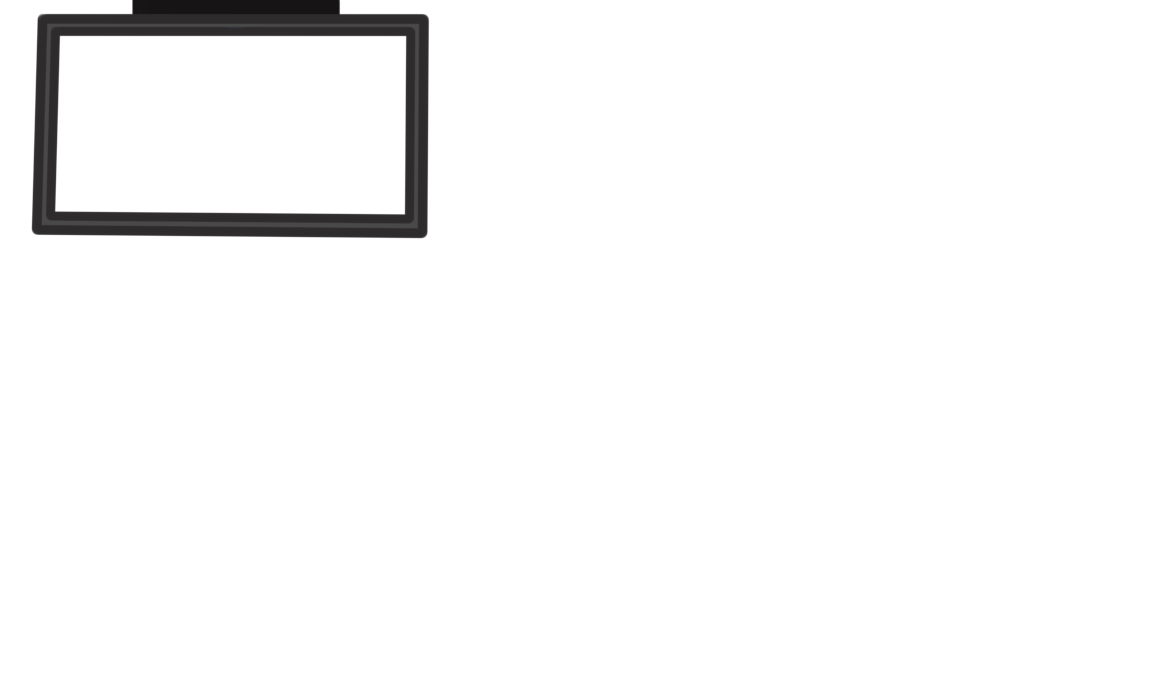
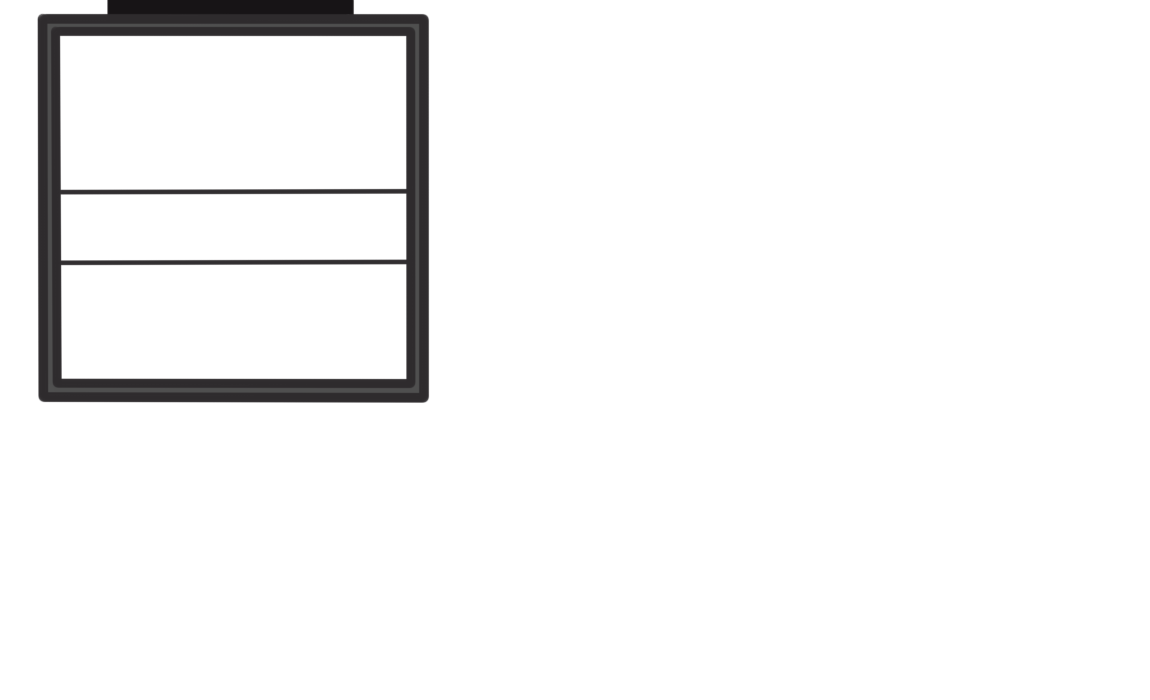
Added money economy alpha version. And changed monitor.png a bit

Changed region(s): [[0.0304, 0.06, 0.3957, 0.6], [0.2739, 0.0, 0.3043, 0.03], [0.0913, 0.0, 0.1217, 0.03]]

diff --git a/main.py b/main.py
@@ -7,8 +7,11 @@ pygame.init()
 size = width, height = 1150, 700
 screen = pygame.display.set_mode(size)
 all_sprites = pygame.sprite.Group()
-fontBig = pygame.font.Font(None, 40)
-fontSmole = pygame.font.Font(None, 30)
+go = False
+
+
+def monitor_text(text, y, scale=40):
+    return [pygame.font.Font(None, scale).render(f'{text}', True, (1, 1, 1)), (70, y)]
 
 
 def load_image(name, colorkey=None):
@@ -49,30 +52,44 @@ class Monitor(pygame.sprite.Sprite):
         super(Monitor, self).__init__(*groups)
         self.image = Monitor.image.copy()
         self.kilograms = 0
-        self.max_kilograms = 10000
-        proc = self.kilograms // (self.max_kilograms / 255)
-        self.color = (255, 255 - proc, 255 - proc)
+        self.max_kilograms = 100
+        self.money_business = 530
+        self.price_of_kilogram = 20
+        self.sale_price = 22
+        proc = self.kilograms / (self.max_kilograms / 255)
+        self.color_metal = (255, 255 - proc, 255 - proc)
         self.rect = self.image.get_rect()
         self.rect.x = 0
         self.rect.y = 0
         self.update_values()
 
     def add_counter(self):
-        self.kilograms += 1
-        self.update_values()
+        if self.money_business >= self.price_of_kilogram:
+            self.kilograms += 1
+            self.money_business -= self.price_of_kilogram
+            self.update_values()
+
+    def lowering(self):
+        pass
 
     def update_values(self):
         proc = self.kilograms / (self.max_kilograms / 255)
-        self.color = (255, 255 - proc, 255 - proc)
+        self.color_metal = (255, 255 - proc, 255 - proc)
         self.image = pygame.surface.Surface((1150, 700), pygame.SRCALPHA, 32)
-        pygame.draw.rect(self.image, self.color, (53, 30, 358, 188))
+        pygame.draw.rect(self.image, self.color_metal, (53, 30, 358, 188))
+        pygame.draw.rect(self.image, (124, 252, 0), (53, 192, 358, 70))
+        pygame.draw.rect(self.image, (135, 206, 250), (53, 262, 358, 130))
         self.image.blit(Monitor.image, (0, 0))
-        self.image.blit(fontBig.render(f'Накоплено металла:',
-                                       True, (1, 1, 1)), (70, 70))
-        self.image.blit(fontBig.render(f'{self.kilograms}', True, (1, 1, 1)), (70, 100))
-        self.image.blit(fontSmole.render(f'Максимальное кол-во металла:',
-                                         True, (1, 1, 1)), (70, 140))
-        self.image.blit(fontSmole.render(f'{self.max_kilograms}', True, (1, 1, 1)), (70, 170))
+        texts = [monitor_text('Накоплено металла:', 60),
+                 monitor_text(self.kilograms, 90),
+                 monitor_text('Максимальное кол-во металла:', 130, 30),
+                 monitor_text(self.max_kilograms, 160, 30),
+                 monitor_text('Деньги бизнеса:', 200),
+                 monitor_text(self.money_business, 230),
+                 monitor_text(f'Цена за килограмм: {self.price_of_kilogram}', 280, 30),
+                 monitor_text(f'Цена за продажу металла: {self.sale_price}', 340, 30)]
+        for text in texts:
+            self.image.blit(*text)
 
 
 class Worker(pygame.sprite.Sprite):
@@ -83,7 +100,6 @@ class Worker(pygame.sprite.Sprite):
 
     def __init__(self, *groups, y=10):
         super(Worker, self).__init__(*groups)
-        print(groups)
         self.image = Worker.image_plus
         self.levels = [self.image_scales]
         self.level = 0
